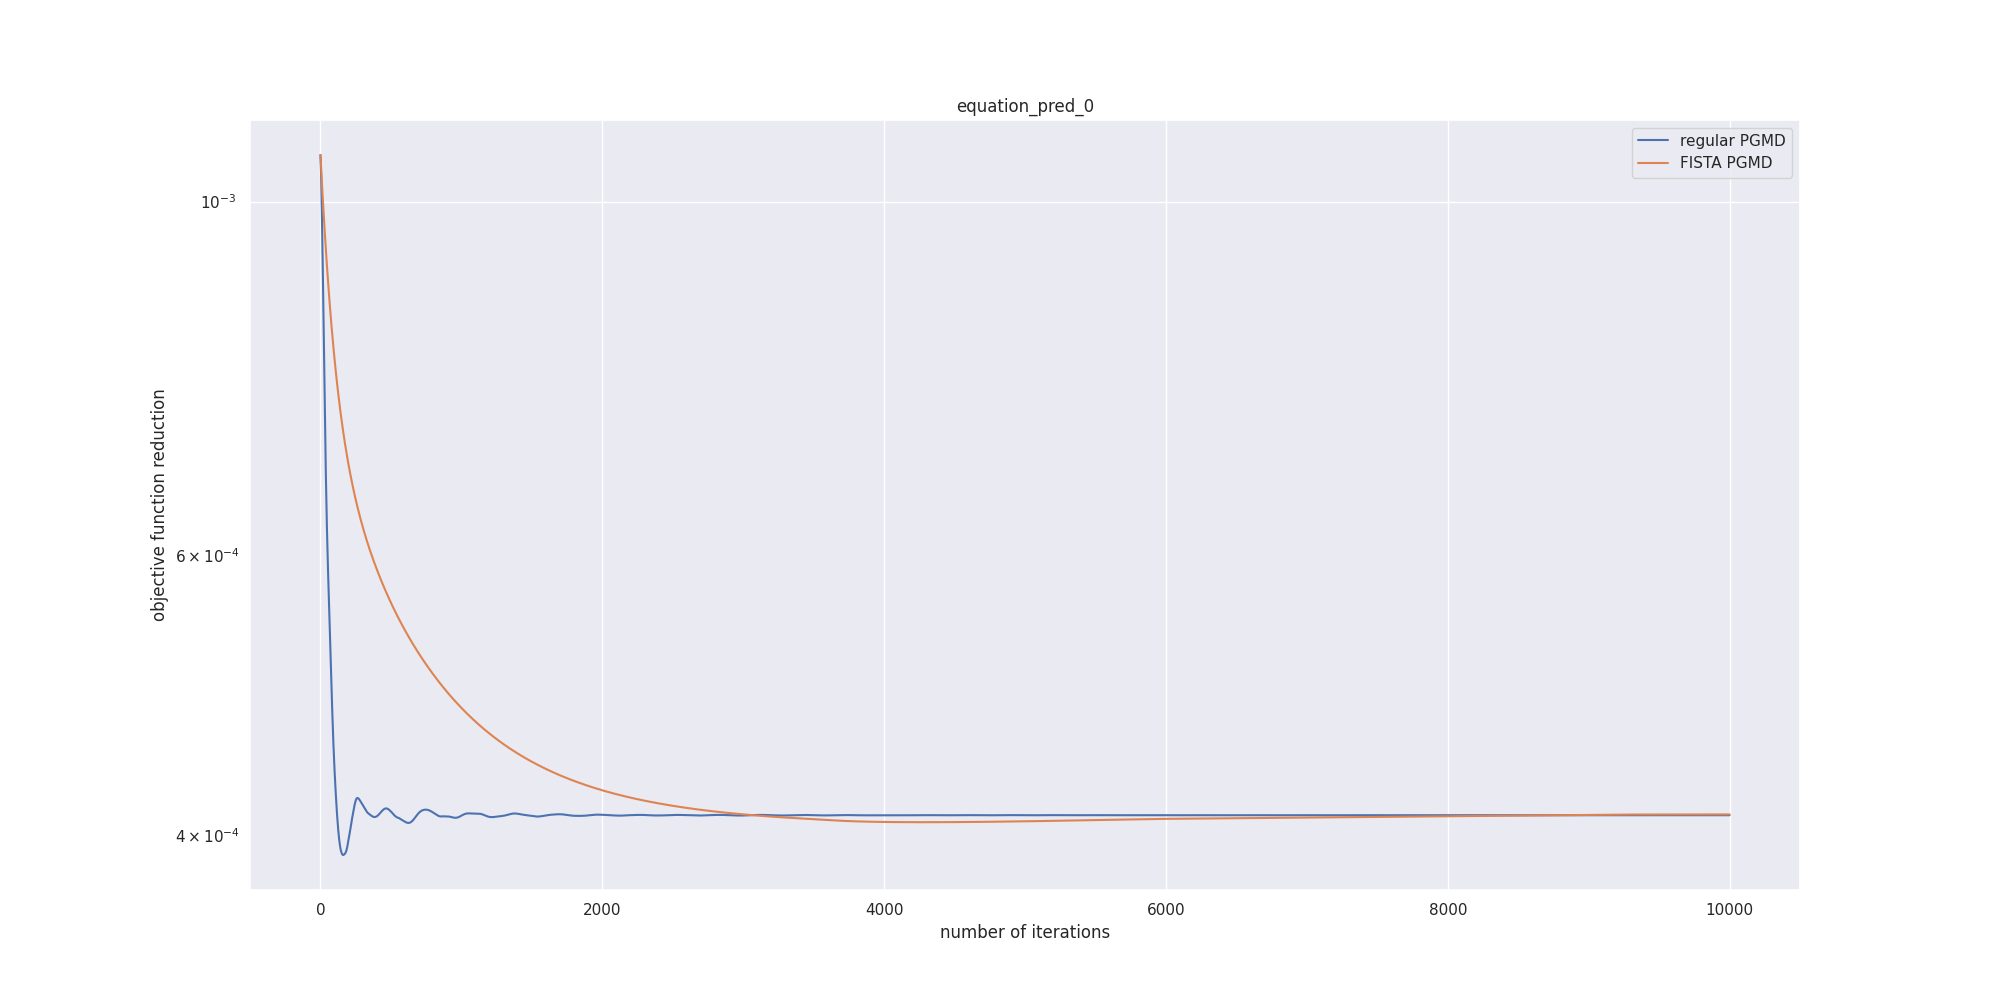
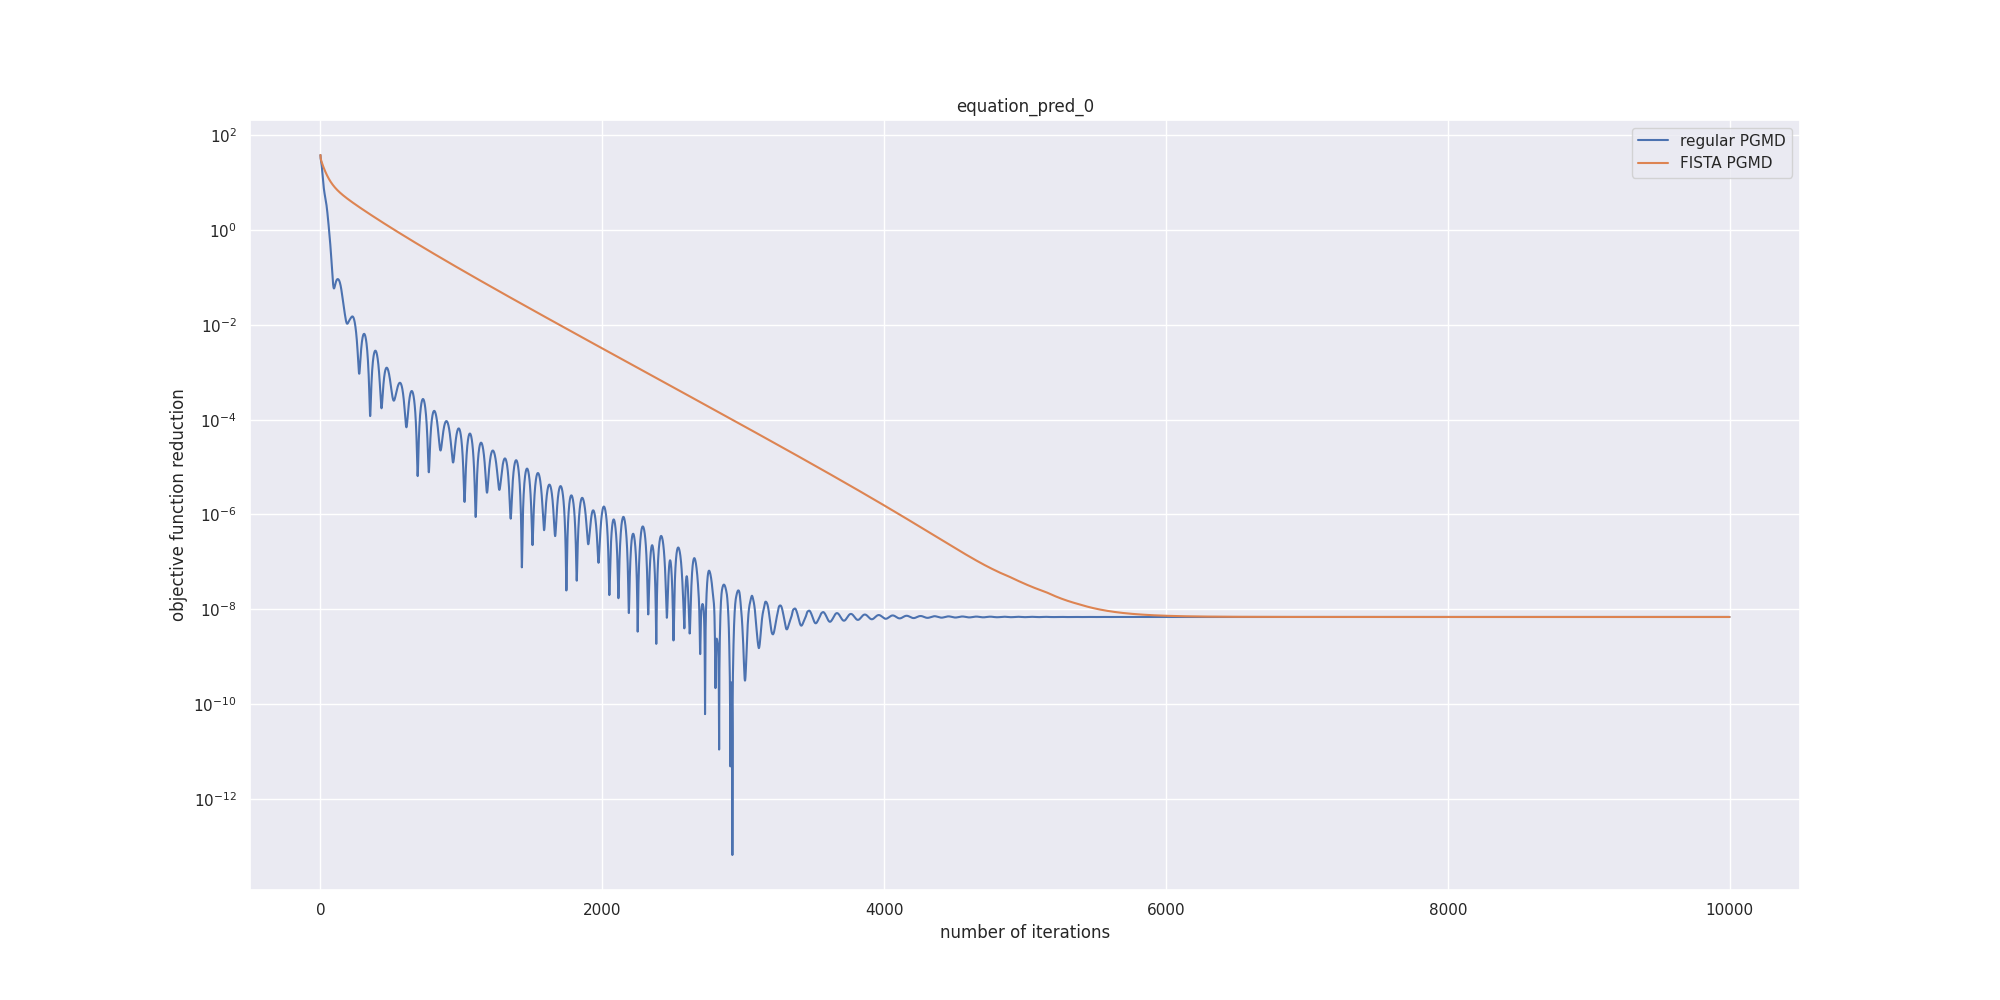
completed

diff --git a/main.py b/main.py
@@ -22,9 +22,9 @@ def g_prox(x,lamb,gamma):
 
 def lorentz_system(sigma,rho,beta,n_points):
     
-    low = -10
-    high = 10
-    states = np.random.uniform(low,high,size = (n_points,3))
+    #low = -10
+    #high = 10
+    states =np.random.normal(loc = 0,scale = 10,size = (n_points,3)) 
     diff = states
     diff[:,0] = sigma*(states[:,1]-states[:,0])
     diff[:,1] = states[:,0]*(rho-states[:,2])-states[:,1]
@@ -39,7 +39,7 @@ def lorentz_system(sigma,rho,beta,n_points):
     
 def main():
 
-    n_points =[100,500,1000]
+    n_points =[1000,5000,10000]
 
     for points in n_points:
         
@@ -48,21 +48,21 @@ def main():
         rho = np.random.normal(loc = 0,scale = 10)
         beta = np.random.normal(loc = 0,scale = 10)
         states,diff = lorentz_system(sigma,rho,beta,points)
-        states = normalize(states)
+        #states,states_norm = normalize(states,return_norm=True)
         diff = np.nan_to_num(diff,nan=0,posinf=0,neginf=0)
-        diff = normalize(diff)
+        diff,diff_norm = normalize(diff,return_norm=True)
         
         
         #create library
         sys = system_creator(states,True)
         labels = sys.lib.columns.to_list()
-        sys.lib = np.nan_to_num(sys.lib,nan=0,posinf=0,neginf=0)
+        sys.lib,lib_norm = normalize(sys.lib,return_norm=True)
         
         #set parameters
         initial_guess = np.zeros((sys.lib.shape[1],states.shape[1]))
         rho = 0.5
-        lamb = 1e-3
-        maxiter = 1e4
+        lamb = 1e-4
+        maxiter = 1e5
         epsilon = 1e-4
 
         #create storage
@@ -79,13 +79,24 @@ def main():
             sparse_index = (np.nonzero(solution['fista'][col]))[0]
             for index in sparse_index:
                 print("sparse representation for equation %d found by PGMB FISTA:%s " %(col,labels[index]))
+            plt.figure()
+            plt.plot(np.multiply(sys.lib@solution['fista'][col],lib_norm[col]),'o')
+            plt.plot(np.multiply(diff[:,col],diff_norm[col]),'x')
+            plt.legend(["prediction","real"])
+            plt.show()
             print("average time per step by PGMD FISTA",np.mean(time_per_step["fista"][col]))
+            print("MSE found by PGMB FISTA:",obj_func['fista'][col][-1])
             solution['reg'][col] ,obj_func['reg'][col],time_per_step['reg'][col],active_columns['reg'][col],opt_gap['reg'][col]=pgm.PGMD_FISTA(f,grad_f,g_prox,lamb,rho,maxiter,epsilon)
             sparse_index = (np.nonzero(solution['reg'][col]))[0]
             for index in sparse_index:
                 print("sparse representation for equation %d found by PGMB:%s " %(col,labels[index]))
-            print("average time per step by PGMD",np.mean(time_per_step["fista"][col]))
-
+            print("average time per step by PGMD",np.mean(time_per_step["reg"][col]))
+            print("MSE found by PGMB:",obj_func['reg'][col][-1])
+            plt.figure()
+            plt.plot(sys.lib@solution['reg'][col],'o')
+            plt.plot(diff[:,col],'x')
+            plt.legend(["prediction","real"])
+            plt.show()
             plt.figure(figsize=(20,10))
             plt.semilogy(obj_func['reg'][col])
             plt.semilogy(obj_func['fista'][col])

diff --git a/system.py b/system.py
@@ -7,7 +7,7 @@ import pandas as pd
 
 class system_creator:
 
-    def __init__(self,states,comp=False,tuning=False,n_degree=3) -> None:
+    def __init__(self,states,comp=False,tuning=False,n_degree=2) -> None:
        
        self.states = states
        self.comp = comp
@@ -73,17 +73,17 @@ class system_creator:
         # string_2 = ")"
         # mat_log.columns = [string_1+str(col)+string_2 for col in mat_log.columns] 
         
-        #elems = ['pol']
-        #base_dict = dict(zip(elems,[mat_pol]))
+        elems = ['pol']
+        base_dict = dict(zip(elems,[mat_pol]))
         #df= pd.DataFrame.from_dict(base_dict,orient='columns')
-        #if self.comp:
+        # if self.comp:
         #    combinations = [(elems[i],elems[j]) for i in range(len(elems)) for j in range(len(elems))]
         #    combinations = combinations[1:]
         #    base_dict = self.compose_dict(base_dict,combinations,degree,compositions)
-        #df=pd.DataFrame(np.ones((states.shape[0],1)))
-        #df.columns = ["constant"]
-        #for shape in base_dict:
-        #    df = pd.concat((df,base_dict[shape]),axis=1)
+        df=pd.DataFrame(np.ones((states.shape[0],1)))
+        df.columns = ["constant"]
+        for shape in base_dict:
+            df = pd.concat((df,base_dict[shape]),axis=1)
         return mat_pol
 
 

diff --git a/PGM.py b/PGM.py
@@ -45,7 +45,7 @@ class PGM_solver:
          time_per_step.append(final-current)
          active_columns.append(np.nonzero(x))
          optimality_gap.append(1/gamma*np.linalg.norm(g_prox(x-gamma*grad_f(A,x,b),lamb,gamma)-x)-epsilon)
-         
+         print(optimality_gap[-1])   
       return x,obj_function,time_per_step,active_columns,optimality_gap
    
 
@@ -78,7 +78,7 @@ class PGM_solver:
          time_per_step.append(final-current)
          active_columns.append(np.nonzero(xk))
          optimality_gap.append(1/gamma*np.linalg.norm(g_prox(xk-gamma*grad_f(A,xk,b),lamb,gamma)-xk)-epsilon)
-         
+         #print(optimality_gap[-1])
          #print(np.round(f(A,xk,b),3),np.nonzero(xk),np.round(1/gamma*np.linalg.norm(g_prox(y-gamma*grad_f(A,y,b),lamb,gamma)-y),3))
 
       return xk,obj_function,time_per_step,active_columns,optimality_gap
